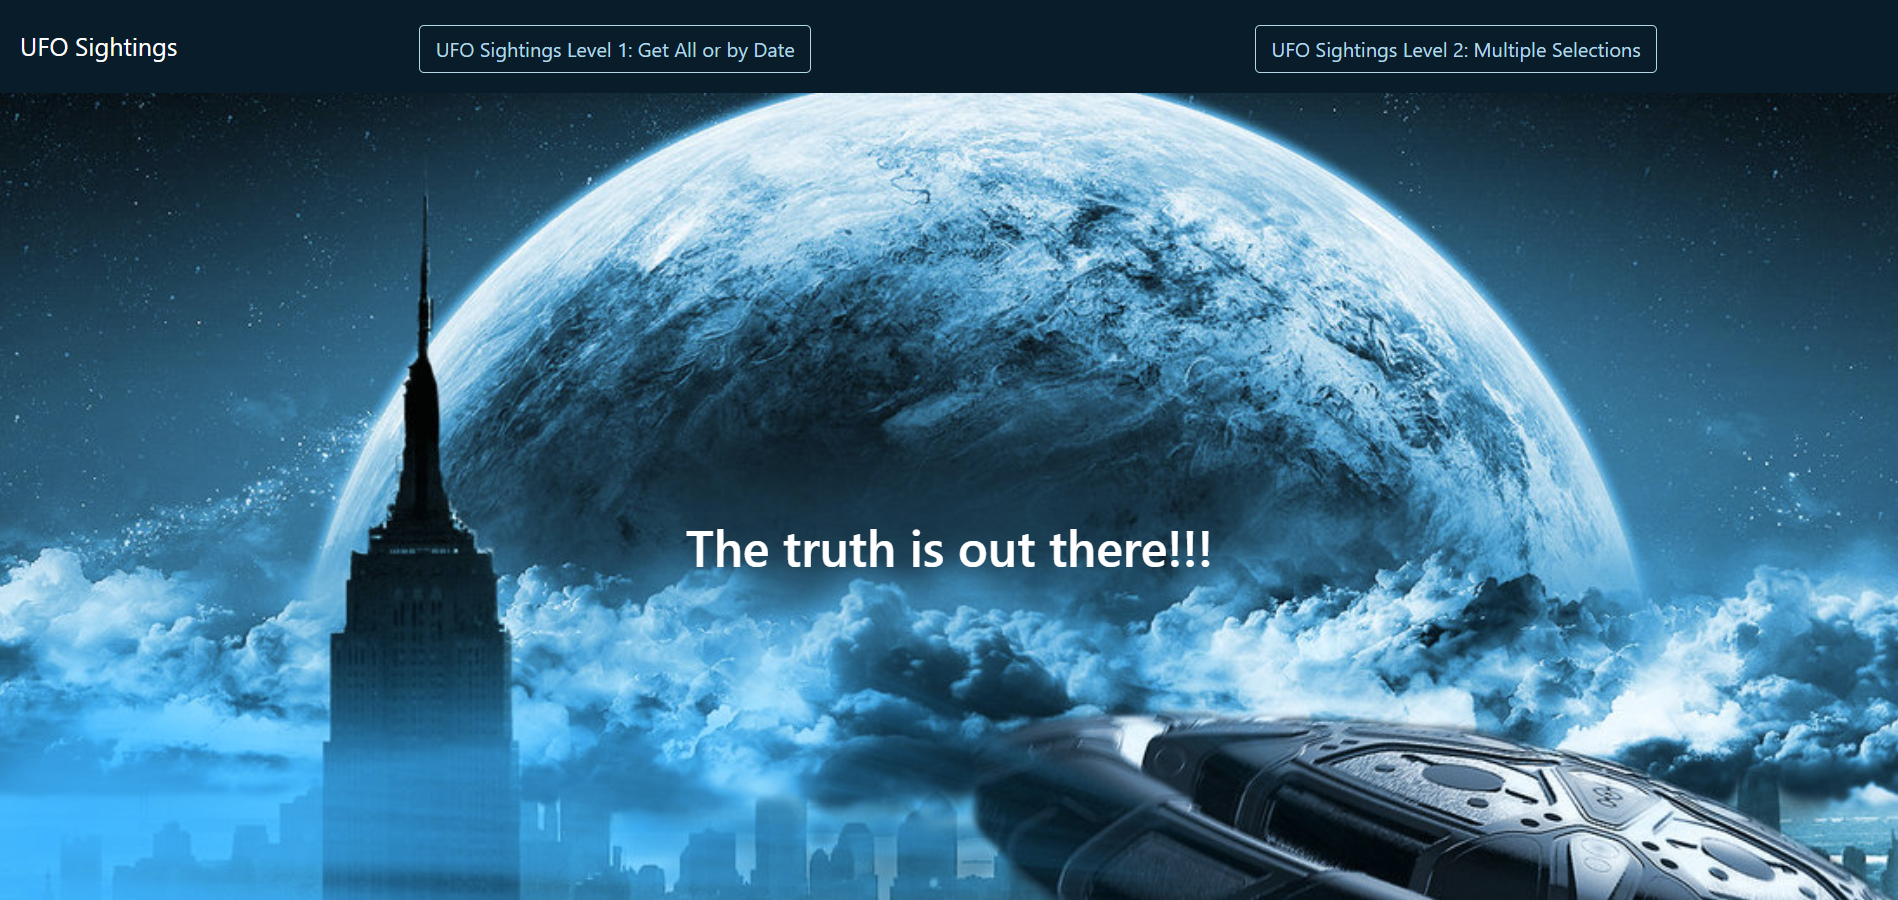
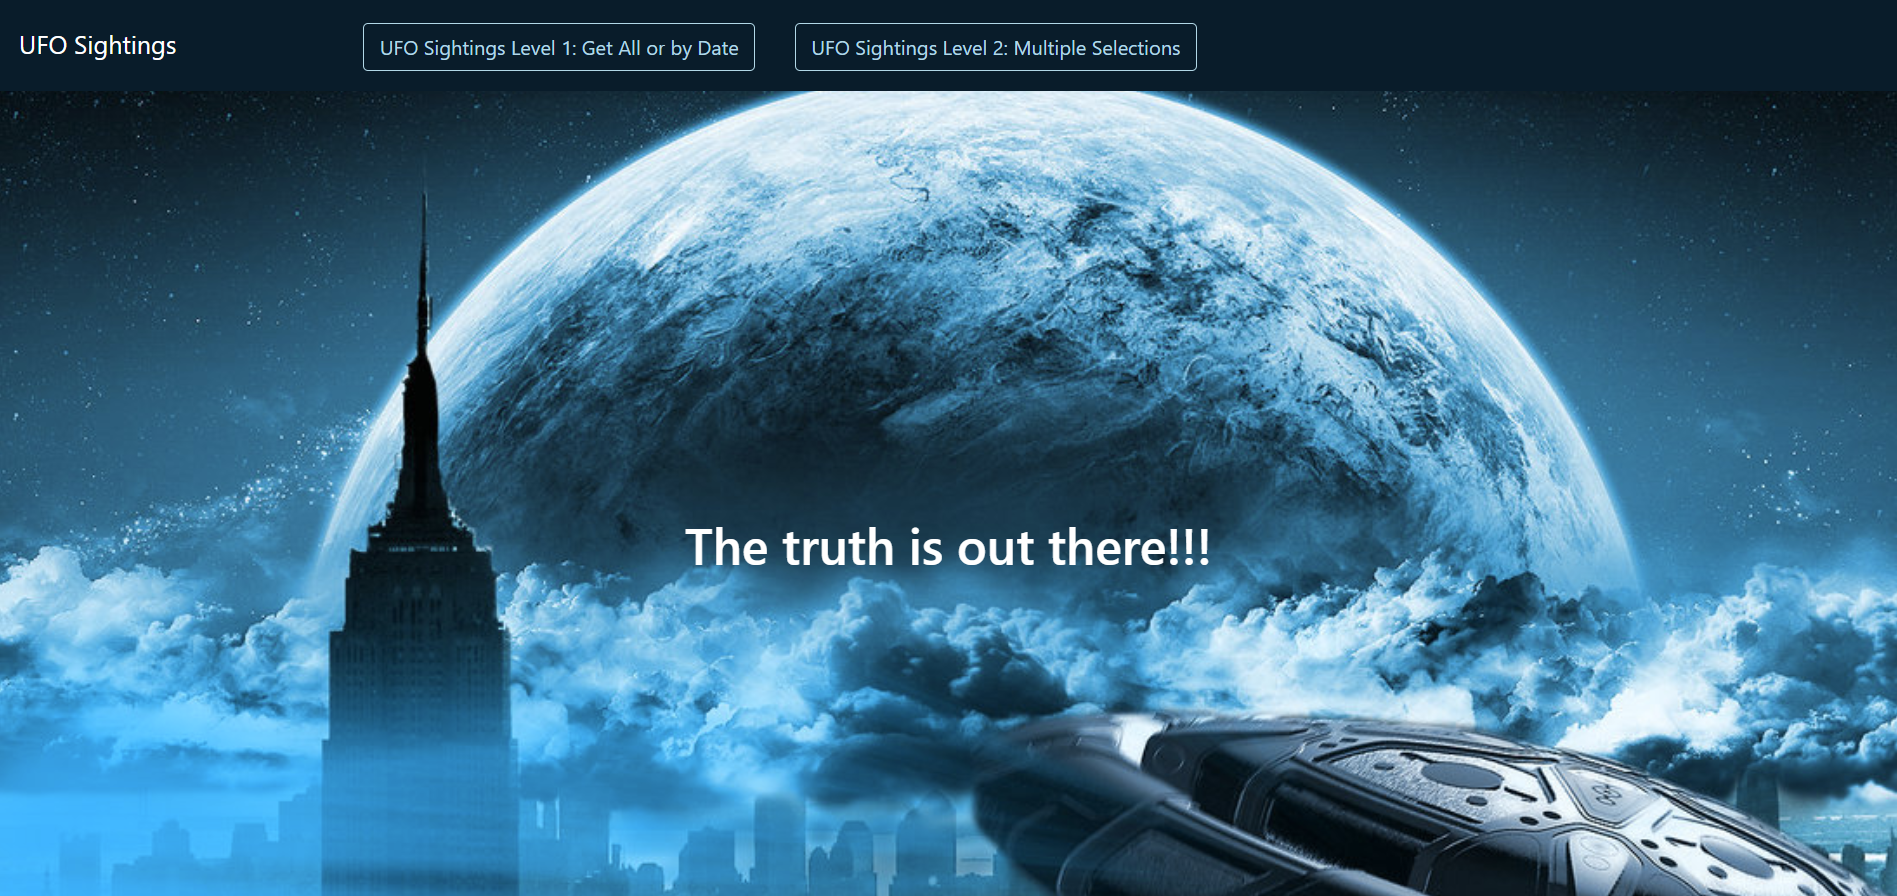
fix UFO for small screens... hopefully

diff --git a/UFO-Level-1-and-2/index_multi.html b/UFO-Level-1-and-2/index_multi.html
@@ -25,7 +25,7 @@
         <span class="navbar-toggler-icon"></span>
       </button> -->
       <!-- </div> -->
-      <div class="collapse navbar-collapse" id="navbarSupportedContent">
+      <!-- <div class="collapse navbar-collapse" id="navbarSupportedContent">
         <ul class="navbar-nav ml-auto">
           <li class="nav-item">
             <a class="nav-link" href="index_multi.html">
@@ -33,7 +33,7 @@
             </a>
           </li>
         </ul>
-      </div>
+      </div> -->
 
       <div class="collapse navbar-collapse " id="navbarSupportedContent">
         <ul class="navbar-nav ml-auto">
@@ -70,6 +70,11 @@
             <div class='col-lg-2 col-sm-6'>
               <select class="form-control" id="selectShape" name="select-shape-from-list">
               </select>
+            </div>
+            <div class='col-lg-2 col-sm-6'>
+              <button type="submit" class="btn btn-primary btn-outline-success" id="selectAll">
+                Select All
+              </button>
             </div>
           </div>
         </div>

diff --git a/UFO-Level-1-and-2/static/js/multi.js b/UFO-Level-1-and-2/static/js/multi.js
@@ -8,15 +8,17 @@ var get_city = d3.select("#selectCity");
 var get_state = d3.select("#selectState");
 var get_country = d3.select("#selectCountry");
 var get_shape = d3.select("#selectShape");
+var get_all = d3.select("#selectAll");
 var tableData = data;
 var filteredData = [];
 
 // Load initial results
 // ####################
 load_all()
+
 function load_all() {
     var tbody = d3.select("tbody");
-    
+    var tableData = data;
     tbody.html(" ");
   
     console.log(tableData);
@@ -144,6 +146,8 @@ get_city.on("change", function() {load_select("#selectCity", "City")});
 get_state.on("change", function() {load_select("#selectState", "State")});
 get_country.on("change", function() {load_select("#selectCountry", "Country")});
 get_shape.on("change", function() {load_select("#selectShape", "Shape")});
+get_all.on("click", function() {location.reload()});
+
 // get_all.on("click", function() {
 //   console.log("Reset was clicked");
 //   load_all()});

diff --git a/UFO-Level-1-and-2/static/css/style.css b/UFO-Level-1-and-2/static/css/style.css
@@ -77,7 +77,7 @@ h1 {
 
 #table-comment{width: 50%}
 
-  #selectDate, #selectCity, #selectCountry, #selectState, #selectShape, #datetime-form-input {
+  #selectDate, #selectCity, #selectCountry, #selectState, #selectShape, #datetime-form-input, #selectAll {
       background-color: lightblue;
       color: black;
       margin: 5px;
